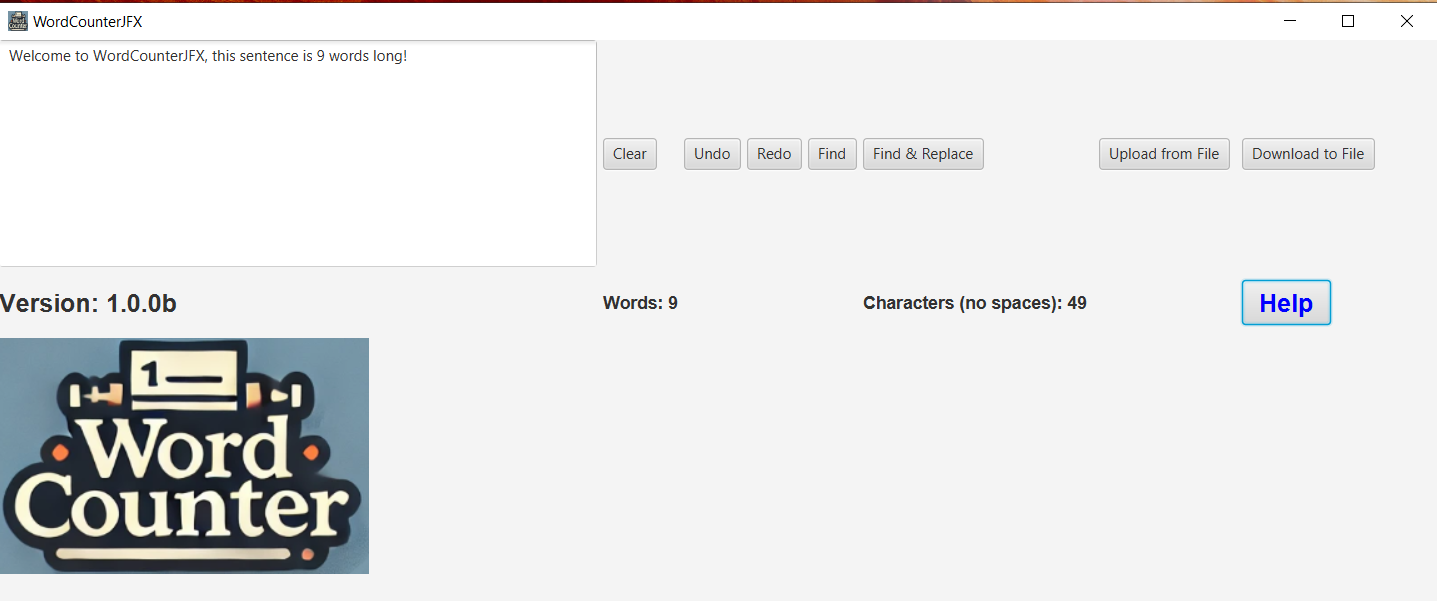
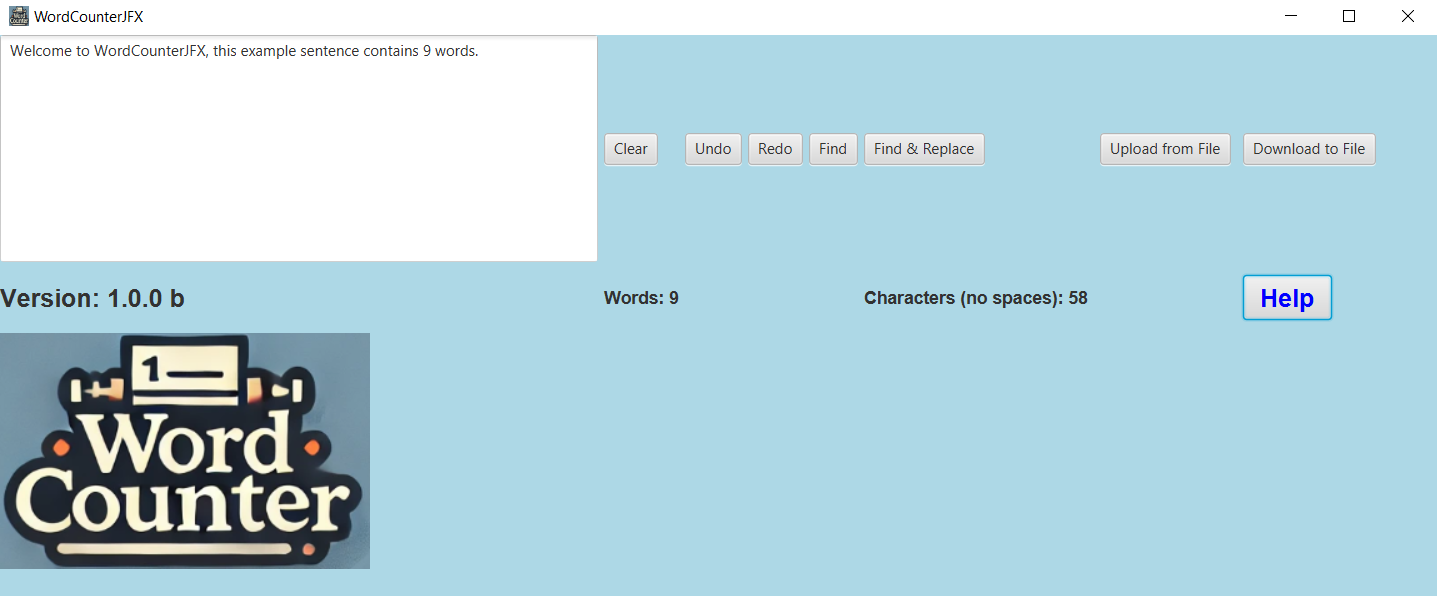
Update App background color from default white to to lightblue CSS. 0824PST, 10/13/2024.

diff --git a/src/WordCounterJFX/view/AppGUI.java b/src/WordCounterJFX/view/AppGUI.java
@@ -23,7 +23,7 @@ import WordCounterJFX.utils.GetIconPath;
  */
 
 public class AppGUI extends Application {
-    protected String APP_VERSION = "1.0.0b"; // major.minor.patch, a - test build, b - deploy build
+    protected String APP_VERSION = "1.0.0 b"; // major.minor.patch, a - test build, b - deploy build
 
     private Button buttonClear;
     private TextArea textArea;
@@ -80,6 +80,7 @@ public class AppGUI extends Application {
         gridPane.add(new ImageView(icon), 0, 2);
         gridPane.add(this.labelCharCount, 5, 1);
         gridPane.add(this.buttonHelp, 9, 1);
+        gridPane.setStyle("-fx-background-color: lightblue;"); // Set widow background color
     
         Scene scene = new Scene(gridPane, 1150, 450); // Create a scene (width(px), len(px))
 

diff --git a/src/WordCounterJFX/controller/FindReplaceButtonController.java b/src/WordCounterJFX/controller/FindReplaceButtonController.java
@@ -80,6 +80,7 @@ public class FindReplaceButtonController extends WordCounterJFX.controller.FindB
         VBox modalLayout = new VBox(20); // 20px space between elements
         modalLayout.getChildren().addAll(phraseField, replaceField, caseSensitiveCheck, searchButton, replaceButton, this.matchesFoundLabel, scrollPane);
         modalLayout.setAlignment(Pos.CENTER); // center alignment of elements
+        modalLayout.setStyle("-fx-background-color: lightblue;"); // set widow background color
         
         Scene modalScene = new Scene(modalLayout, 600, 400);
         Image icon = new Image(GetIconPath.getIconPath());

diff --git a/src/WordCounterJFX/controller/FindButtonController.java b/src/WordCounterJFX/controller/FindButtonController.java
@@ -67,6 +67,7 @@ public class FindButtonController {
         VBox modalLayout = new VBox(20); // 20px space between elements
         modalLayout.getChildren().addAll(phraseField, caseSensitiveCheck, searchButton, this.matchesFoundLabel, scrollPane);
         modalLayout.setAlignment(Pos.CENTER); // center alignment of elements
+        modalLayout.setStyle("-fx-background-color: lightblue;"); // set widow background color
         
         Scene modalScene = new Scene(modalLayout, 600, 400);
         Image icon = new Image(GetIconPath.getIconPath());
